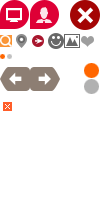
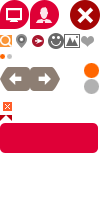
minisite活动说明页面

Changed region(s): [[0.0, 0.57, 0.99, 0.78]]

diff --git a/config/routes.rb b/config/routes.rb
@@ -880,6 +880,7 @@ Icolor::Application.routes.draw do
     resources :minisite_designs
     resources :minisite_stars
     resources :minisite_weekly_stars
+    resources :love_story_activities, only: :index
   end
 
 end

diff --git a/app/controllers/love_story/love_story_activities_controller.rb b/app/controllers/love_story/love_story_activities_controller.rb
@@ -1,0 +1,6 @@
+# encoding: utf-8
+class LoveStory::LoveStoryActivitiesController < LoveStory::BaseController
+  def index
+
+  end
+end

diff --git a/app/helpers/love_story/love_story_ctivities_helper.rb b/app/helpers/love_story/love_story_ctivities_helper.rb
@@ -1,0 +1,2 @@
+module LoveStory::LoveStoryCtivitiesHelper
+end
